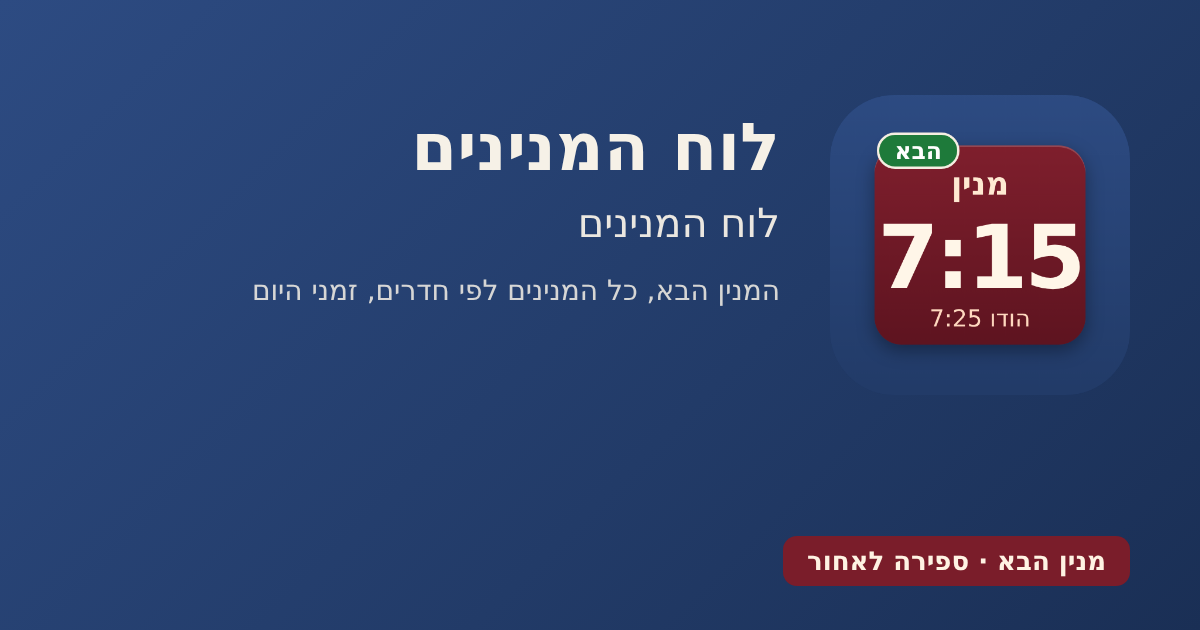
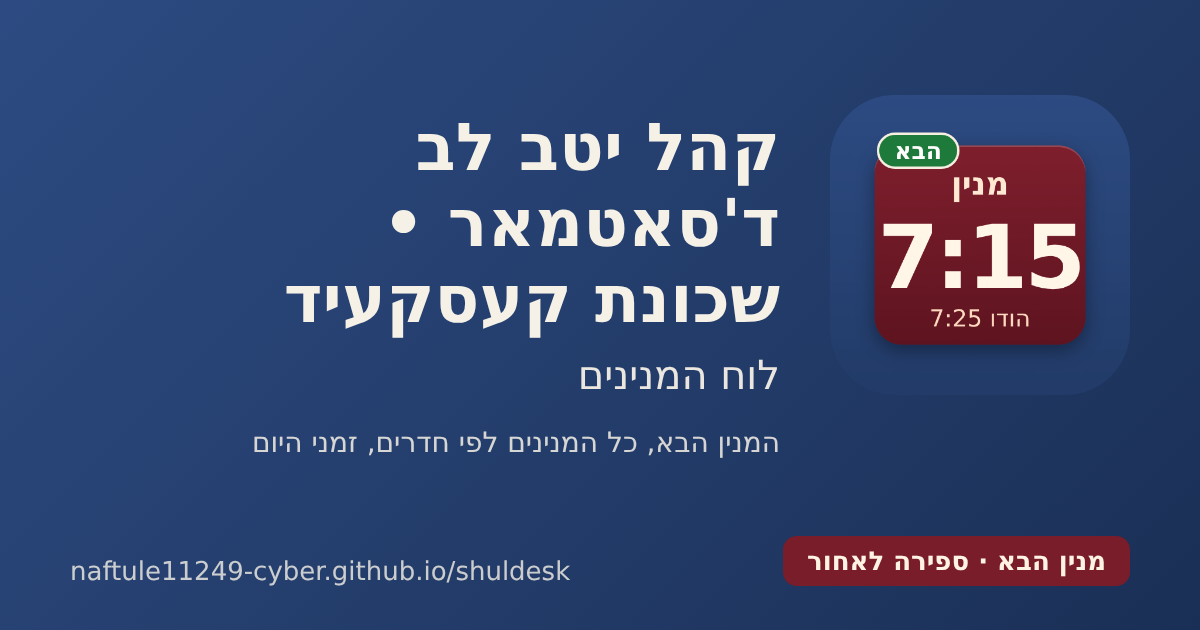
Site address on GitHub Pages (shuldesk repo, minyan branch)
Claude-Session: https://claude.ai/code/session_015qVEwmXpP5FgKQsvynj4LY

diff --git a/docs/admin.html b/docs/admin.html
@@ -1,4 +1,4 @@
-<!doctype html><html lang="he"><head><meta name="robots" content="noindex,nofollow"><meta charset="utf-8"><meta name="viewport" content="width=device-width,initial-scale=1,viewport-fit=cover"><style>:root{color-scheme:light;box-sizing:border-box;padding-top:env(safe-area-inset-top,0px);padding-bottom:env(safe-area-inset-bottom,0px)}html{scroll-padding-top:env(safe-area-inset-top,0px)}body{margin:0;padding:0;font:14px -apple-system,BlinkMacSystemFont,sans-serif;background:#fff;color:#000}img{max-width:100%}[hidden]:not([hidden=until-found i]){display:none!important}</style><link rel="manifest" href="manifest.webmanifest"><meta name="theme-color" content="#223b68"><meta name="apple-mobile-web-app-capable" content="yes"><meta name="mobile-web-app-capable" content="yes"><meta name="apple-mobile-web-app-status-bar-style" content="black-translucent"><meta name="apple-mobile-web-app-title" content="מנינים"><link rel="apple-touch-icon" href="apple-touch-icon.png"><link rel="icon" type="image/png" href="favicon.png"><meta property="og:type" content="website"><meta property="og:title" content="קהל יטב לב ד'סאטמאר • שכונת קעסקעיד"><meta property="og:description" content="המנין הבא, כל המנינים לפי חדרים וזמני היום"><meta property="og:image" content="og-image.png"><meta property="og:image:width" content="1200"><meta property="og:image:height" content="630"><meta property="og:locale" content="he_IL"><meta name="twitter:card" content="summary_large_image"><meta name="description" content="המנין הבא, כל המנינים לפי חדרים וזמני היום"></head><body><title>לוח המנינים – ניהול</title>
+<!doctype html><html lang="he"><head><meta name="robots" content="noindex,nofollow"><meta charset="utf-8"><meta name="viewport" content="width=device-width,initial-scale=1,viewport-fit=cover"><style>:root{color-scheme:light;box-sizing:border-box;padding-top:env(safe-area-inset-top,0px);padding-bottom:env(safe-area-inset-bottom,0px)}html{scroll-padding-top:env(safe-area-inset-top,0px)}body{margin:0;padding:0;font:14px -apple-system,BlinkMacSystemFont,sans-serif;background:#fff;color:#000}img{max-width:100%}[hidden]:not([hidden=until-found i]){display:none!important}</style><link rel="manifest" href="manifest.webmanifest"><meta name="theme-color" content="#223b68"><meta name="apple-mobile-web-app-capable" content="yes"><meta name="mobile-web-app-capable" content="yes"><meta name="apple-mobile-web-app-status-bar-style" content="black-translucent"><meta name="apple-mobile-web-app-title" content="מנינים"><link rel="apple-touch-icon" href="apple-touch-icon.png"><link rel="icon" type="image/png" href="favicon.png"><meta property="og:type" content="website"><meta property="og:title" content="קהל יטב לב ד'סאטמאר • שכונת קעסקעיד"><meta property="og:description" content="המנין הבא, כל המנינים לפי חדרים וזמני היום"><meta property="og:image" content="https://naftule11249-cyber.github.io/shuldesk/og-image.png"><meta property="og:image:width" content="1200"><meta property="og:image:height" content="630"><meta property="og:locale" content="he_IL"><meta property="og:url" content="https://naftule11249-cyber.github.io/shuldesk/"><meta name="twitter:card" content="summary_large_image"><meta name="description" content="המנין הבא, כל המנינים לפי חדרים וזמני היום"></head><body><title>לוח המנינים – ניהול</title>
 <meta name="claude:viewport-fit-sides" content="cover">
 <link rel="stylesheet" href="https://fonts.googleapis.com/css2?family=Frank+Ruhl+Libre:wght@400;700&family=Heebo:wght@400;500;700&display=swap">
 <link rel="stylesheet" href="style.css">
@@ -76,10 +76,12 @@
  "smsNumber": "",
  "remoteConfigUrl": "",
  "savedAt": 1792560529720,
- "siteUrl": "",
+ "siteUrl": "https://naftule11249-cyber.github.io/shuldesk/",
  "logo": "",
  "rooms": "ברך משה, דברי יואל, לב אהרן, שלמה יודא, היכל ביהמ״ד",
[2 lines of base64/hex data omitted]
+ "githubRepo": "naftule11249-cyber/shuldesk",
+ "githubBranch": "minyan"
 }</script>
 <script src="cal.js"></script>
 <script src="engine.js"></script>

diff --git a/docs/index.html b/docs/index.html
@@ -1,4 +1,4 @@
-<!doctype html><html lang="he"><head><meta charset="utf-8"><meta name="viewport" content="width=device-width,initial-scale=1,viewport-fit=cover"><style>:root{color-scheme:light;box-sizing:border-box;padding-top:env(safe-area-inset-top,0px);padding-bottom:env(safe-area-inset-bottom,0px)}html{scroll-padding-top:env(safe-area-inset-top,0px)}body{margin:0;padding:0;font:14px -apple-system,BlinkMacSystemFont,sans-serif;background:#fff;color:#000}img{max-width:100%}[hidden]:not([hidden=until-found i]){display:none!important}</style><link rel="manifest" href="manifest.webmanifest"><meta name="theme-color" content="#223b68"><meta name="apple-mobile-web-app-capable" content="yes"><meta name="mobile-web-app-capable" content="yes"><meta name="apple-mobile-web-app-status-bar-style" content="black-translucent"><meta name="apple-mobile-web-app-title" content="מנינים"><link rel="apple-touch-icon" href="apple-touch-icon.png"><link rel="icon" type="image/png" href="favicon.png"><meta property="og:type" content="website"><meta property="og:title" content="קהל יטב לב ד'סאטמאר • שכונת קעסקעיד"><meta property="og:description" content="המנין הבא, כל המנינים לפי חדרים וזמני היום"><meta property="og:image" content="og-image.png"><meta property="og:image:width" content="1200"><meta property="og:image:height" content="630"><meta property="og:locale" content="he_IL"><meta name="twitter:card" content="summary_large_image"><meta name="description" content="המנין הבא, כל המנינים לפי חדרים וזמני היום"></head><body><title>לוח המנינים</title>
+<!doctype html><html lang="he"><head><meta charset="utf-8"><meta name="viewport" content="width=device-width,initial-scale=1,viewport-fit=cover"><style>:root{color-scheme:light;box-sizing:border-box;padding-top:env(safe-area-inset-top,0px);padding-bottom:env(safe-area-inset-bottom,0px)}html{scroll-padding-top:env(safe-area-inset-top,0px)}body{margin:0;padding:0;font:14px -apple-system,BlinkMacSystemFont,sans-serif;background:#fff;color:#000}img{max-width:100%}[hidden]:not([hidden=until-found i]){display:none!important}</style><link rel="manifest" href="manifest.webmanifest"><meta name="theme-color" content="#223b68"><meta name="apple-mobile-web-app-capable" content="yes"><meta name="mobile-web-app-capable" content="yes"><meta name="apple-mobile-web-app-status-bar-style" content="black-translucent"><meta name="apple-mobile-web-app-title" content="מנינים"><link rel="apple-touch-icon" href="apple-touch-icon.png"><link rel="icon" type="image/png" href="favicon.png"><meta property="og:type" content="website"><meta property="og:title" content="קהל יטב לב ד'סאטמאר • שכונת קעסקעיד"><meta property="og:description" content="המנין הבא, כל המנינים לפי חדרים וזמני היום"><meta property="og:image" content="https://naftule11249-cyber.github.io/shuldesk/og-image.png"><meta property="og:image:width" content="1200"><meta property="og:image:height" content="630"><meta property="og:locale" content="he_IL"><meta property="og:url" content="https://naftule11249-cyber.github.io/shuldesk/"><meta name="twitter:card" content="summary_large_image"><meta name="description" content="המנין הבא, כל המנינים לפי חדרים וזמני היום"></head><body><title>לוח המנינים</title>
 <meta name="claude:viewport-fit-sides" content="cover">
 <link rel="stylesheet" href="https://fonts.googleapis.com/css2?family=Frank+Ruhl+Libre:wght@400;700&family=Heebo:wght@400;500;700&display=swap">
 <link rel="stylesheet" href="style.css">
@@ -76,10 +76,12 @@
  "smsNumber": "",
  "remoteConfigUrl": "",
  "savedAt": 1792560529720,
- "siteUrl": "",
+ "siteUrl": "https://naftule11249-cyber.github.io/shuldesk/",
  "logo": "",
  "rooms": "ברך משה, דברי יואל, לב אהרן, שלמה יודא, היכל ביהמ״ד",
[2 lines of base64/hex data omitted]
+ "githubRepo": "naftule11249-cyber/shuldesk",
+ "githubBranch": "minyan"
 }</script>
 <script src="cal.js"></script>
 <script src="engine.js"></script>

diff --git a/docs/app.js b/docs/app.js
@@ -781,7 +781,7 @@
     /* publish (self-hosted site / app) */
     var pp = el('div', { class: 'col' }), gh = ghSettings();
     var fRemote = inp('f-remote', d.remoteConfigUrl || '', { dir: 'ltr', placeholder: 'https://.../config.json' });
-    var gRepo = inp('gh-repo', gh.repo || '', { dir: 'ltr', placeholder: 'username/minyan', autocomplete: 'off' }), gBranch = inp('gh-branch', gh.branch || 'main', { dir: 'ltr' }),
+    var gRepo = inp('gh-repo', gh.repo || d.githubRepo || '', { dir: 'ltr', placeholder: 'username/minyan', autocomplete: 'off' }), gBranch = inp('gh-branch', gh.branch || d.githubBranch || 'main', { dir: 'ltr' }),
       gPath = inp('gh-path', gh.path || 'docs/config.json', { dir: 'ltr' }), gToken = inp('gh-token', gh.token || '', { type: 'password', dir: 'ltr', autocomplete: 'off' });
     var ghMsg = el('div', { class: 'hint' });
     function saveGh() {

diff --git a/src/app.js b/src/app.js
@@ -781,7 +781,7 @@
     /* publish (self-hosted site / app) */
     var pp = el('div', { class: 'col' }), gh = ghSettings();
     var fRemote = inp('f-remote', d.remoteConfigUrl || '', { dir: 'ltr', placeholder: 'https://.../config.json' });
-    var gRepo = inp('gh-repo', gh.repo || '', { dir: 'ltr', placeholder: 'username/minyan', autocomplete: 'off' }), gBranch = inp('gh-branch', gh.branch || 'main', { dir: 'ltr' }),
+    var gRepo = inp('gh-repo', gh.repo || d.githubRepo || '', { dir: 'ltr', placeholder: 'username/minyan', autocomplete: 'off' }), gBranch = inp('gh-branch', gh.branch || d.githubBranch || 'main', { dir: 'ltr' }),
       gPath = inp('gh-path', gh.path || 'docs/config.json', { dir: 'ltr' }), gToken = inp('gh-token', gh.token || '', { type: 'password', dir: 'ltr', autocomplete: 'off' });
     var ghMsg = el('div', { class: 'hint' });
     function saveGh() {

diff --git a/src/index.html b/src/index.html
@@ -76,10 +76,12 @@
  "smsNumber": "",
  "remoteConfigUrl": "",
  "savedAt": 1792560529720,
- "siteUrl": "",
+ "siteUrl": "https://naftule11249-cyber.github.io/shuldesk/",
  "logo": "",
  "rooms": "ברך משה, דברי יואל, לב אהרן, שלמה יודא, היכל ביהמ״ד",
[2 lines of base64/hex data omitted]
+ "githubRepo": "naftule11249-cyber/shuldesk",
+ "githubBranch": "minyan"
 }</script>
 <script src="cal.js"></script>
 <script src="engine.js"></script>

diff --git a/docs/sw.js b/docs/sw.js
@@ -1,5 +1,5 @@
 /* sw.js — offline cache for the minyan board. VERSION is stamped by build.js. */
-var VERSION = 'minyan-shell-b2dba69457e8';
+var VERSION = 'minyan-shell-155638363b92';
 var FONTS = 'minyan-fonts';
 var SHELL = ['./index.html', './admin.html', './style.css', './cal.js', './engine.js', './template.js', './app.js', './manifest.webmanifest', './icon-192.png', './icon-512.png', './config.json'];
 self.addEventListener('install', function (e) {
